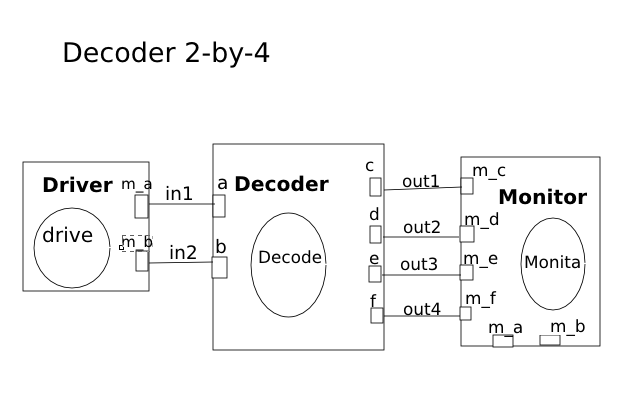
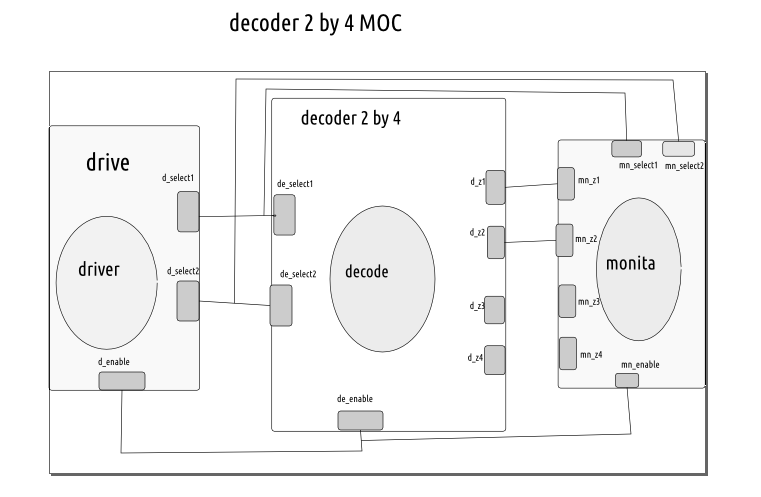
Modify the Tutorial 2: Making decoder 2by4 using decoder 1by2

Changed region(s): [[0.0308, 0.0298, 0.9854, 0.9826], [0.4619, 0.6551, 0.5543, 0.7146], [0.4927, 0.7444, 0.5235, 0.7742]]

diff --git a/WanjohiSamuel/decoder_2by_4/decoder_2by4.cc b/WanjohiSamuel/decoder_2by_4/decoder_2by4.cc
@@ -1,61 +1,50 @@
-/*
- * decoder_2by4.cc
- *
- *  Created on: Mar 15, 2016
- *      Author: WanjohiSammy
- */
-#include"decoder_2by4.h"
-#include"driver.h"
-#include"monitor.h"
-#include<systemc.h>
+//File: decoder_top.cpp
 
-int sc_main(int argc, char *argv[]){
-//some signals for interconnections
-sc_signal<bool> in1, in2, out1, out2, out3, out4;
+#ifndef DECODER_2BY4_CC_
+#define DECODER_2BY4_CC_
+
+#include "driver.h"
+#include "monitor.h"
+#include "decoder_2by4.h"
+#include <systemc.h>
+
+int sc_main(int argc, char* argv[])
+{
 //module instances
-decoder dec("decoder_instance");
+decoder dec("decoder");
 driver dr("driver");
-monitor mn("monitor");
-//interconnections b2in modules
-dr.d_a(in1);
-dec.a(in1);
-mn.m_a(in1);
+monitor mn ("Monitor");	
 
-dr.d_b(in2);
-dec.b(in2);
-mn.m_b(in2);
-
-dec.c(out1);
-mn.m_c(out1);
-
-dec.d(out2);
-mn.m_d(out2);
-
-dec.e(out3);
-mn.m_e(out3);
-
-dec.f(out4);
-mn.m_f(out4);
-
+sc_signal<bool> t_enable; 
+sc_signal<sc_uint<2> > t_select;
+sc_signal<sc_lv<4> > t_z;
+ 
+dec.de_enable(t_enable);
+dec.de_select(t_select);
+dec.z(t_z); 
+ 
+dr.d_enable(t_enable);
+dr.d_select(t_select);  
+ 
+mn.m_select(t_select); 
+mn.m_enable(t_enable);
+mn.m_z(t_z); 
+ 
 //create a trace file with nanosecond resolution
 sc_trace_file *tf;
 tf = sc_create_vcd_trace_file("timing_diagram");
 tf->set_time_unit(1, SC_NS);
-//trace the signals interconnecting modules
-sc_trace(tf, in1, "binary_input1"); // signals to be traced
-sc_trace(tf, in2, "binary_input2");
-sc_trace(tf, out1, "input1_is_zero_input2_is_zero");
-sc_trace(tf, out2, "input1_is_zero_input2_is_one");
-sc_trace(tf, out3, "input1_is_one_input2_is_zero");
-sc_trace(tf, out4, "input1_is_one_input2_is_one");
 
-//run a simulation for 50 systemc nano-seconds
+sc_trace(tf, t_select, "A");
+sc_trace(tf, t_z, "D");
+sc_trace(tf, t_enable, "EN");
+ 
+//run a simulation for 20 systemc nano-seconds
 if( !sc_pending_activity() )
-sc_start(25,SC_NS);
+sc_start(20, SC_NS);
 //close the trace file
 sc_close_vcd_trace_file(tf);
-return 0;
+
+return(0); 
 }
-
-
-
+#endif

diff --git a/WanjohiSamuel/decoder_2by_4/decoder_2by4.h b/WanjohiSamuel/decoder_2by_4/decoder_2by4.h
@@ -1,39 +1,34 @@
-/*
- * decoder_2by4.h
- *
- *  Created on: Mar 4, 2016
- *      Author: karibe
- */
+//File : decoder2_by4.h
 
 #ifndef DECODER_2BY4_H_
 #define DECODER_2BY4_H_
-#include<systemc.h>
-
-SC_MODULE(decoder){
+#include <systemc.h>
+ 
+SC_MODULE(decoder) {
 //input and output ports
-sc_in<bool> a,b;
-sc_out<bool> c,d,e,f;
-//constructor: where the processes are bound to simulation kernel
+sc_in<bool>de_enable;
+sc_in<sc_uint<2> >de_select;
+sc_out<sc_lv<4> >z;
+ 
 SC_CTOR(decoder){
-	SC_METHOD(decode);
-	sensitive<<a;
-	sensitive<<b;
-	//dont_initialize();
-}
-
-~decoder(){
-//delete stuff :P
+SC_METHOD(decode); 
+sensitive<<de_enable<<de_select;
 }
 
 void decode(void){
-	c=(a==0 && b==0)?1:0;
-	d=(a==0 && b==1)?1:0;
-	e=(a==1 && b==0)?1:0;
-	f=(a==1 && b==1)?1:0;
+
+if(de_enable==0)
+{
+switch(de_select.read())
+{
+case 0: z = 0; break;
+case 1: z = 1; break;
+case 2: z = 2; break;
+case 3: z = 3; break;
 }
-};
-
-
-
-
-#endif /* DECODER_2BY4_H_ */
+}
+else
+	z=1111;
+}
+}; 
+#endif

diff --git a/WanjohiSamuel/decoder_2by_4/monitor.h b/WanjohiSamuel/decoder_2by_4/monitor.h
@@ -1,28 +1,29 @@
-/*
- * monitor.h
- *
- *  Created on: Mar 4, 2016
- *      Author: karibe
- */
-
+ 
+//File: monitor.h
 #ifndef MONITOR_H_
 #define MONITOR_H_
-#include<iostream>
-#include<systemc>
 
+#include <iostream>
+#include <systemc.h>
 using namespace std;
-
-SC_MODULE(monitor){
-sc_in<bool> m_a, m_b, m_c, m_d, m_e, m_f;
-
-SC_CTOR(monitor){
-	SC_METHOD(monita);
-	sensitive<<m_c<<m_d<<m_e<<m_f;
-	dont_initialize();
+ 
+SC_MODULE (monitor)
+{
+sc_in<bool> m_enable;
+sc_in<sc_uint<2> > m_select;
+sc_in<sc_lv<4> > m_z;
+ 
+SC_CTOR(monitor)
+{
+SC_METHOD (monita); 
+sensitive << m_select<<m_enable <<m_z;
+//dont_initialize();
 }
 
-void monita(void){
-cout<<"at "<<sc_time_stamp()<<" input are: "<<m_a<<" and "<<m_b<<" : outputs are: "<<m_c<<" , "<<m_d<<" , "<<m_e<<" and "<<m_f<<endl;
+void monita(void)
+{
+		cout<<"At time"<<sc_time_stamp()<<"::"<<" (select, enable) "<<m_select<<" | "<<m_enable<<" output: "<<m_z<<endl;
 }
-};
-#endif /* MONITOR_H_ */
+}; 
+
+#endif

diff --git a/WanjohiSamuel/decoder_2by_4/driver.h b/WanjohiSamuel/decoder_2by_4/driver.h
@@ -1,33 +1,33 @@
-/*
- * driver.h
- *
- *  Created on: Mar 4, 2016
- *      Author: karibe
- */
+//File:driver.h
 
 #ifndef DRIVER_H_
 #define DRIVER_H_
+#include <systemc.h>
+ 
+SC_MODULE (driver){
+sc_out<bool> d_enable;
+sc_out<sc_uint<2> > d_select;
 
-#include<systemc>
-
-SC_MODULE(driver){
-sc_out<bool> d_a,d_b;
+sc_uint<2> pattern;
 
 SC_CTOR(driver){
-	SC_THREAD(drive);
+SC_THREAD (drive) ;
+sensitive<< d_enable<<d_select;
 }
 
 void drive(void){
-	while(1){
-		d_a=0; d_b=0;
-		wait(5,SC_NS);
-		d_a=0; d_b=1;
-		wait(5,SC_NS);
-		d_a=1; d_b=0;
-		wait(5,SC_NS);
-		d_a=1; d_b=1;
-		wait(5,SC_NS);
-	}
+pattern = 0;
+bool temp_enable;
+while(1){
+
+while(temp_enable==0){
+d_select=pattern; 
+d_enable=temp_enable;
+wait (1, SC_NS);
+pattern++;
+}
+}
 }
 };
-#endif /* DRIVER_H_ */
+
+#endif

diff --git a/WanjohiSamuel/decoder_2by_4/README.md b/WanjohiSamuel/decoder_2by_4/README.md
@@ -1,20 +1,21 @@
+<html>
 Tutorial 2:
-Create a decoder_2by4 based on this decoder_1by2.<br>
+Example of cascading decoder.
 
-This is a 2-by-4 decoder example, which is a makefile project and so no need for an IDE. 
-Just cd into this folder and run the command 
+Open a terminal and just cd into this folder and run the command 
 
     make decoder
 
-
 A line decoder is a device that changes the input code into a set of signals.<br>
 It takes an n-digit binary number and decodes it into 2<sup>n</sup> data lines.
-It does the reverse of encoding. <br>
+Decoding does the reverse of encoding. <br>
 
-The 2-by-4 decoder decodes 2 digit binary numbers.
-In the following truth table, only the output D0 is high when both inputs i.e A0 and A1 are zero, the output D1 is high when inputs A1 is zero and A0 is 1. Only output D2 is high when inputs A1 is 1 and A2 is zero. And only output D3 is high when both inputs are 1.
+2-by-4 decoder decodes 2 digit binary numbers. 
+This 2-by-4 decoder is made using 1-by-2 decoder where by when an ENABLE is low, A0=0 and A1=0 and
+the output D0=00, when A0=0 and A1=1 the output D1=01, when A0=1 and A1=0 the output D2=10
+and when A0=1 and A1=1 the output D3=11. 
 
-Its truth table: 
+Its?
 <p align="left">
   <img src="truth_table.png" width="250"/>
 </p>
@@ -28,10 +29,11 @@ Model of computation:
 <p align="left">
   <img src="MOC.png" width="400"/>
 </p>
+
 Results:
 The above MOC was implemented in systemc (code in this folder) and the following output found from traced signals.<br>
 Traced signals timing diagram:
 <p align="left">
   <img src="timing_diagram.png" width="400"/>
 <p>
-
+</html>
